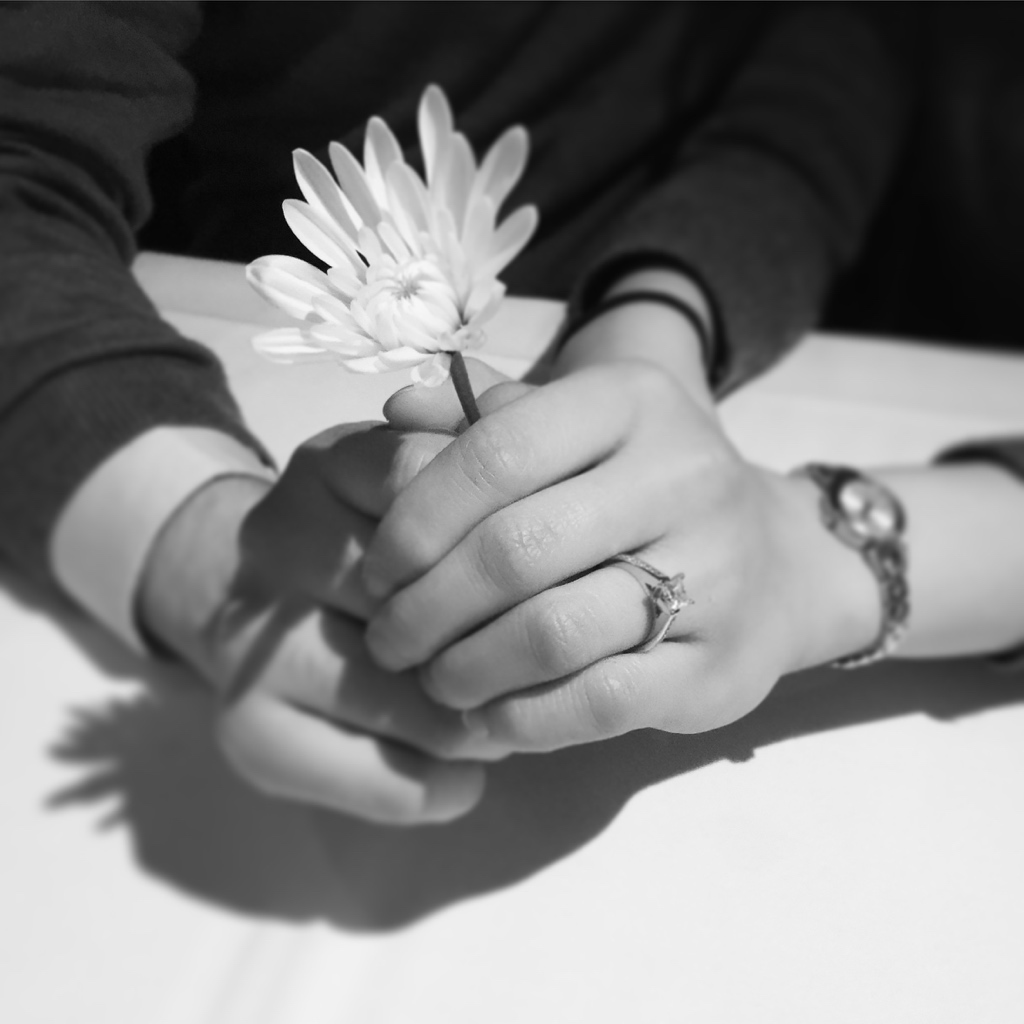
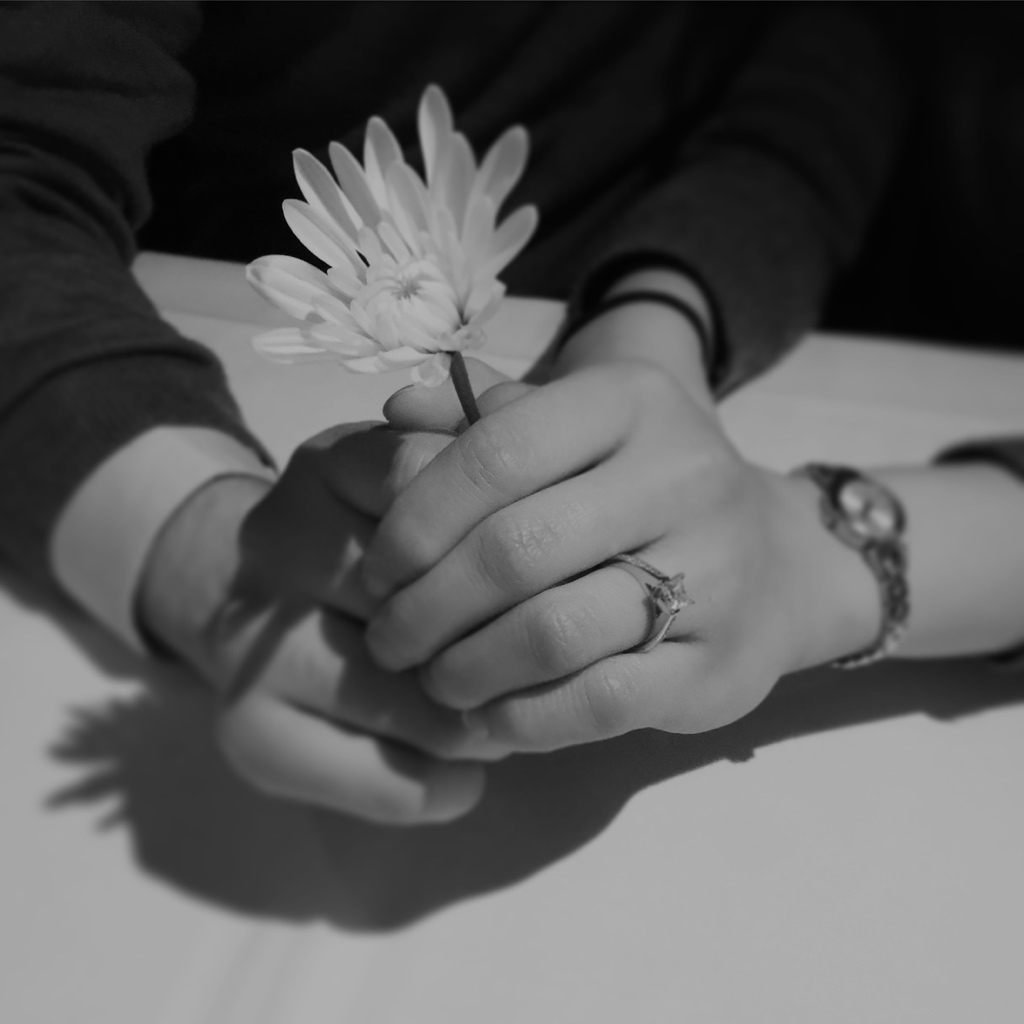
new photos and modded photos to be darker plus gmen

diff --git a/_site/wedding/posts/2016/02/02/engagement-photos.html b/_site/wedding/posts/2016/02/02/engagement-photos.html
@@ -1,0 +1,195 @@
+<!DOCTYPE html>
+<html>
+  <head>
+  <meta charset="utf-8">
+  <!-- (1) Optimize for mobile versions: http://goo.gl/EOpFl -->
+  <meta name="viewport" content="width=device-width, initial-scale=1.0">
+  <!-- (1) force latest IE rendering engine: bit.ly/1c8EiC9 -->
+  <meta http-equiv="X-UA-Compatible" content="IE=edge">
+
+  <title>Engagement Photos!</title>
+  <meta name="description" content="<p>Having been engaged for a year, it was about time to take the next big step in our relationship: engagement photos.</p>
+
+" />
+
+  <link rel="shortcut icon" type="image/png" href="/assets/images/favicon.png">
+
+  <meta name="HandheldFriendly" content="True" />
+  <meta name="MobileOptimized" content="320" />
+  <meta name="apple-mobile-web-app-capable" content="yes">
+  <meta name="apple-mobile-web-app-status-bar-style" content="black-translucent">
+  
+    <meta name="twitter:card" content="summary" />
+    <meta name="twitter:site" content="@_jenfo" />
+    <meta name="twitter:title" content="Engagement Photos!" />
+    <meta name="twitter:image" content="http://www.robertandjensayido.com/assets/images/logo_rj-01.jpg" />
+    
+    <meta name="twitter:description"  content="Having been engaged for a year, it was about time to take the next big step in our relationship: engagement photos." />
+    
+  
+  
+  <meta property="og:site_name" content="Robert & Jen Say I Do" />
+  <meta property="og:title" content="Engagement Photos!"/>
+  
+  <meta property="og:description" content="Having been engaged for a year, it was about time to take the next big step in our relationship: engagement photos." />
+  
+  <meta property="og:image" content="http://www.robertandjensayido.com/assets/images/engagement_background.jpg" />
+  <meta property="og:url" content="http://www.robertandjensayido.com/wedding/posts/2016/02/02/engagement-photos.html" >
+  <meta property="og:type" content="blog" />
+  <meta property="article:published_time" content="2016-02-02T09:34:25-05:00">
+
+  <link rel="canonical" href="http://www.robertandjensayido.com/wedding/posts/2016/02/02/engagement-photos.html">
+
+  <link rel="shortcut icon" href="/assets/images/favicon.ico">
+  <link rel="stylesheet" href="//brick.a.ssl.fastly.net/Linux+Libertine:400,400i,700,700i/Open+Sans:400,400i,700,700i">
+  <link href="//maxcdn.bootstrapcdn.com/font-awesome/4.2.0/css/font-awesome.min.css" rel="stylesheet">
+
+  <link rel="stylesheet" type="text/css" media="screen" href="/css/main.css" />
+  <link rel="stylesheet" type="text/css" media="print" href="/css/print.css" />
+</head>
+
+  <body itemscope itemtype="http://schema.org/Article">
+    <!-- header start -->
+
+<a href="http://www.robertandjensayido.com" class="logo-readium"><span class="logo" style="background-image: url(/assets/images/logo_rj-01.jpg)"></span></a>
+
+<!-- header end -->
+
+    <main class="content" role="main">
+      <article class="post">
+        
+        <div class="article-image">
+          <div class="post-image-image" style="background-image: url(/assets/images/engagement_background.jpg)">
+            Article Image
+          </div>
+          <div class="post-meta">
+            <h1 class="post-title">Engagement Photos!</h1>
+            <div class="cf post-meta-text">
+              <div class="author-image" style="background-image: url(/assets/images/author.jpg)">Blog Logo</div>
+              <h4 class="author-name" itemprop="author" itemscope itemtype="http://schema.org/Person">Robert Amezquita & Jennifer Delizo</h4>
+              on
+              <time datetime="2016-02-02 09:34">02 Feb 2016</time>
+              <!-- , tagged on <span class="post-tag-">, <a href="/tag/"></a></span> -->
+            </div>
+            <div style="text-align:center">
+              <a href="#topofpage" class="topofpage"><i class="fa fa-angle-down"></i></a>
+            </div>
+          </div>
+        </div>
+        
+        <section class="post-content">
+          <div class="post-reading">
+            <span class="post-reading-time"></span> read
+          </div>
+          <a name="topofpage"></a>
+          <p>Having been engaged for a year, it was about time to take the next big step in our relationship: engagement photos.</p>
+
+<p>It was such a fun experience, and we had such a great time with our photographer, Dave, from <a href="http://www.abmweddingphotos.com/">ABM Wedding Photography</a>. From the get go, he helped us get very comfortable with being shot from all angles, and spent quality time with us at two different locations - Balboa Park and the La Jolla Shores, two places that are very special to us with so many great memories that we cherish.</p>
+
+<p>But as they say, pictures say a thousand words, so here is the link to the Facebook photo album for your perusal! Enjoy ~</p>
+
+<div id="fb-root"></div>
+<script>(function(d, s, id) {  var js, fjs = d.getElementsByTagName(s)[0];  if (d.getElementById(id)) return;  js = d.createElement(s); js.id = id;  js.src = "//connect.facebook.net/en_GB/sdk.js#xfbml=1&version=v2.3";  fjs.parentNode.insertBefore(js, fjs);}(document, 'script', 'facebook-jssdk'));</script>
+<div class="fb-post" data-href="https://www.facebook.com/media/set/?set=a.10153851704592943.1073742309.180017687942&amp;type=3" data-width="500"><div class="fb-xfbml-parse-ignore"><blockquote cite="https://www.facebook.com/media/set/?set=a.10153851704592943.1073742309.180017687942&amp;type=3"><p>ABM Photography</p>Posted by <a href="https://www.facebook.com/abmfoto/">ABM Wedding Photography</a> on&nbsp;<a href="https://www.facebook.com/media/set/?set=a.10153851704592943.1073742309.180017687942&amp;type=3">Friday, 8 January 2016</a></blockquote></div></div>
+
+        </section>
+        <footer class="post-footer">
+          <section class="share">
+            
+              
+                <a class="icon-twitter" href="http://twitter.com/share?text=Engagement+Photos%21&amp;url=http://www.robertandjensayido.com/wedding/posts/2016/02/02/engagement-photos"
+                  onclick="window.open(this.href, 'twitter-share', 'width=550,height=255');return false;">
+                <i class="fa fa-twitter"></i><span class="hidden">twitter</span>
+                </a>
+              
+            
+              
+                <a class="icon-twitter" href="http://twitter.com/share?text=Engagement+Photos%21&amp;url=http://www.robertandjensayido.com/wedding/posts/2016/02/02/engagement-photos"
+                  onclick="window.open(this.href, 'twitter-share', 'width=550,height=255');return false;">
+                <i class="fa fa-twitter"></i><span class="hidden">twitter</span>
+                </a>
+              
+            
+          </section>
+        </footer>
+        <div class="bottom-teaser cf">
+          <div class="isLeft">
+            <h5 class="index-headline featured"><span>Written by</span></h5>
+            <section class="author">
+              <div class="author-image" style="background-image: url(/assets/images/author.jpg)">Blog Logo</div>
+              <h4>Robert Amezquita & Jennifer Delizo</h4>
+              <p class="bio"></p>
+              <hr>
+              <p class="published">Published <time datetime="2016-02-02 09:34">02 Feb 2016</time></p>
+            </section>
+          </div>
+          
+          <div class="isRight">
+            <h5 class="index-headline featured"><span>Supported by</span></h5>
+            <footer class="site-footer">
+              <section class="poweredby">Proudly published with <a href="http://jekyllrb.com"> Jekyll</a></section>
+              <a class="subscribe" href="/feed.xml"> <span class="tooltip"> <i class="fa fa-rss"></i> You should subscribe to my feed.</span></a>
+              <div class="inner">
+                <section class="copyright">All content copyright <a href="/">Robert Amezquita & Jennifer Delizo</a> &copy; 2016<br>All rights reserved.</section>
+              </div>
+            </footer>
+          </div>
+        </div>
+        
+      </article>
+    </main>
+    <div class="bottom-closer">
+      <div class="background-closer-image"  style="background-image: url(/assets/images/homepage.jpg)">
+        Image
+      </div>
+      <div class="inner">
+        <h1 class="blog-title">Robert & Jen Say I Do</h1>
+        <h2 class="blog-description">Jennifer Delizo & Robert Amezquita Wedding
+</h2>
+        <a href="/" class="btn">Back to Overview</a>
+      </div>
+    </div>
+    <script src="https://code.jquery.com/jquery-1.11.1.min.js"></script>
+<script type="text/javascript" src="/assets/js/jquery.fitvids.js"></script>
+<script type="text/javascript" src="/assets/js/index.js"></script>
+<script type="text/javascript" src="/assets/js/readingTime.min.js"></script>
+<script>
+(function ($) {
+  "use strict";
+  $(document).ready(function(){
+
+    var $window = $(window),
+    $image = $('.post-image-image, .teaserimage-image');
+    
+      $window.on('scroll', function() {
+        var top = $window.scrollTop();
+
+        if (top < 0 || top > 1500) { return; }
+        $image
+          .css('transform', 'translate3d(0px, '+top/3+'px, 0px)')
+          .css('opacity', 1-Math.max(top/700, 0));
+      });
+      $window.trigger('scroll');
+
+      var height = $('.article-image').height();
+      $('.post-content').css('padding-top', height + 'px');
+
+      $('a[href*=#]:not([href=#])').click(function() {
+        if (location.pathname.replace(/^\//,'') == this.pathname.replace(/^\//,'')
+         && location.hostname == this.hostname) {
+          var target = $(this.hash);
+          target = target.length ? target : $('[name=' + this.hash.slice(1) +']');
+          if (target.length) {
+            $('html,body').animate({ scrollTop: target.offset().top }, 500);
+            return false;
+          }
+        }
+      });
+
+  });
+}(jQuery));
+</script>
+
+
+  </body>
+</html>

diff --git a/_site/index.html b/_site/index.html
@@ -123,6 +123,23 @@
         <article class="post" itemscope itemtype="http://schema.org/BlogPosting" role="article">
           <div class="article-item">
             <header class="post-header">
+              <h2 class="post-title" itemprop="name"><a href="/wedding/posts/2016/02/02/engagement-photos.html" itemprop="url">Engagement Photos!</a></h2>
+            </header>
+            <section class="post-excerpt" itemprop="description">
+              <p>Having been engaged for a year, it was about time to take the next big step in our relationship: engagement photos.
+
+</p>
+            </section>
+            <div class="post-meta">
+              <time datetime="02 February 2016">02 February 2016</time>
+<!--            <span class="post-tags-set">on <span class="post-tag-">, <a href="/tag/"></a></span></span>-->
+            </div>
+          </div>
+        </article>
+      
+        <article class="post" itemscope itemtype="http://schema.org/BlogPosting" role="article">
+          <div class="article-item">
+            <header class="post-header">
               <h2 class="post-title" itemprop="name"><a href="/wedding/posts/2015/09/10/meetthegroomsmen.html" itemprop="url">Meet the Men</a></h2>
             </header>
             <section class="post-excerpt" itemprop="description">

diff --git a/_site/wedding/posts/2015/09/10/meetthegroomsmen.html b/_site/wedding/posts/2015/09/10/meetthegroomsmen.html
@@ -84,7 +84,7 @@
           <a name="topofpage"></a>
           <p>If Myspace was still around, these guys would easily be in my top 10. Meet the lucky 7 who will get to stand by my side as I wait anxiously at the altar!</p>
 
-<center><img src="/assets/page_images/groomsmen/edo.jpg" height="300" alt="edo" /></center>
+<center><img src="/assets/page_images/groomsmen/edo.jpg" height="300" alt="Edo" /></center>
 <p><strong>Edward: Best Man</strong>
 “Edo” and “Robbo” have been friends since the fifth grade, when on the school field trip to Balboa Park, a younger version of Ed came up to a younger version of Rob and asked “Why the heck do you play violin?” Instead of taking offense to that question, Rob realized he had a lifelong, best friend in front of him. Through thick and thin, awkward and slightly less awkward phases of life, Rob and Ed form a fearsome duo in Cards Against Humanity. Ed hails from the land of maple leafs and moose, but you would be forgiven for thinking his motherland was Russia after a few drinks as he takes on his (in)famous Russian accent. Edo has taken his dedication to music to a new level, pursuing a PhD in composition at the University of California - Los Angeles.</p>
 

diff --git a/_site/registry/index.html b/_site/registry/index.html
@@ -32,7 +32,7 @@
   
   <meta property="og:description" content="Jennifer Delizo & Robert Amezquita Wedding" />
   
-  <meta property="og:image" content="http://www.robertandjensayido.com/assets/images/registry_back.jpg" />
+  <meta property="og:image" content="http://www.robertandjensayido.com/assets/images/registry_background.jpg" />
   <meta property="og:url" content="http://www.robertandjensayido.com/registry/" >
   <meta property="og:type" content="blog" />
   <meta property="article:published_time" content="2015-09-10T10:34:25-04:00">
@@ -58,7 +58,7 @@
       <article class="post">
         
         <div class="article-image">
-          <div class="post-image-image" style="background-image: url(/assets/images/registry_back.jpg)">
+          <div class="post-image-image" style="background-image: url(/assets/images/registry_background.jpg)">
             Article Image
           </div>
           <div class="post-meta">

diff --git a/_posts/2016-02-02-engagement-photos.md b/_posts/2016-02-02-engagement-photos.md
@@ -1,0 +1,16 @@
+---
+layout: post
+title:  "Engagement Photos!"
+author: "Robert Amezquita"
+date:   2016-02-02 14:34:25
+categories: Wedding Posts
+image: /assets/images/engagement_background.jpg
+---
+
+Having been engaged for a year, it was about time to take the next big step in our relationship: engagement photos.
+
+It was such a fun experience, and we had such a great time with our photographer, Dave, from [ABM Wedding Photography](http://www.abmweddingphotos.com/). From the get go, he helped us get very comfortable with being shot from all angles, and spent quality time with us at two different locations - Balboa Park and the La Jolla Shores, two places that are very special to us with so many great memories that we cherish.
+
+But as they say, pictures say a thousand words, so here is the link to the Facebook photo album for your perusal! Enjoy ~
+
+<div id="fb-root"></div><script>(function(d, s, id) {  var js, fjs = d.getElementsByTagName(s)[0];  if (d.getElementById(id)) return;  js = d.createElement(s); js.id = id;  js.src = "//connect.facebook.net/en_GB/sdk.js#xfbml=1&version=v2.3";  fjs.parentNode.insertBefore(js, fjs);}(document, 'script', 'facebook-jssdk'));</script><div class="fb-post" data-href="https://www.facebook.com/media/set/?set=a.10153851704592943.1073742309.180017687942&amp;type=3" data-width="500"><div class="fb-xfbml-parse-ignore"><blockquote cite="https://www.facebook.com/media/set/?set=a.10153851704592943.1073742309.180017687942&amp;type=3"><p>ABM Photography</p>Posted by <a href="https://www.facebook.com/abmfoto/">ABM Wedding Photography</a> on&nbsp;<a href="https://www.facebook.com/media/set/?set=a.10153851704592943.1073742309.180017687942&amp;type=3">Friday, 8 January 2016</a></blockquote></div></div>

diff --git a/_posts/2016-09-10-meetthegroomsmen.md b/_posts/2016-09-10-meetthegroomsmen.md
@@ -9,7 +9,7 @@ image: /assets/images/gmen_background.jpg
 
 If Myspace was still around, these guys would easily be in my top 10. Meet the lucky 7 who will get to stand by my side as I wait anxiously at the altar!
 
-<center><img src="/assets/page_images/groomsmen/edo.jpg" height="300" alt="edo"></center>
+<center><img src="/assets/page_images/groomsmen/edo.jpg" height="300" alt="Edo"></center>
 **Edward: Best Man**
 "Edo" and "Robbo" have been friends since the fifth grade, when on the school field trip to Balboa Park, a younger version of Ed came up to a younger version of Rob and asked "Why the heck do you play violin?" Instead of taking offense to that question, Rob realized he had a lifelong, best friend in front of him. Through thick and thin, awkward and slightly less awkward phases of life, Rob and Ed form a fearsome duo in Cards Against Humanity. Ed hails from the land of maple leafs and moose, but you would be forgiven for thinking his motherland was Russia after a few drinks as he takes on his (in)famous Russian accent. Edo has taken his dedication to music to a new level, pursuing a PhD in composition at the University of California - Los Angeles.
 

diff --git a/registry.md b/registry.md
@@ -4,7 +4,7 @@ title:  "Registry"
 date:   2015-09-10 14:34:25
 categories: personal feature
 tags: featured
-image: /assets/images/registry_back.jpg
+image: /assets/images/registry_background.jpg
 permalink: /registry/
 ---
 
